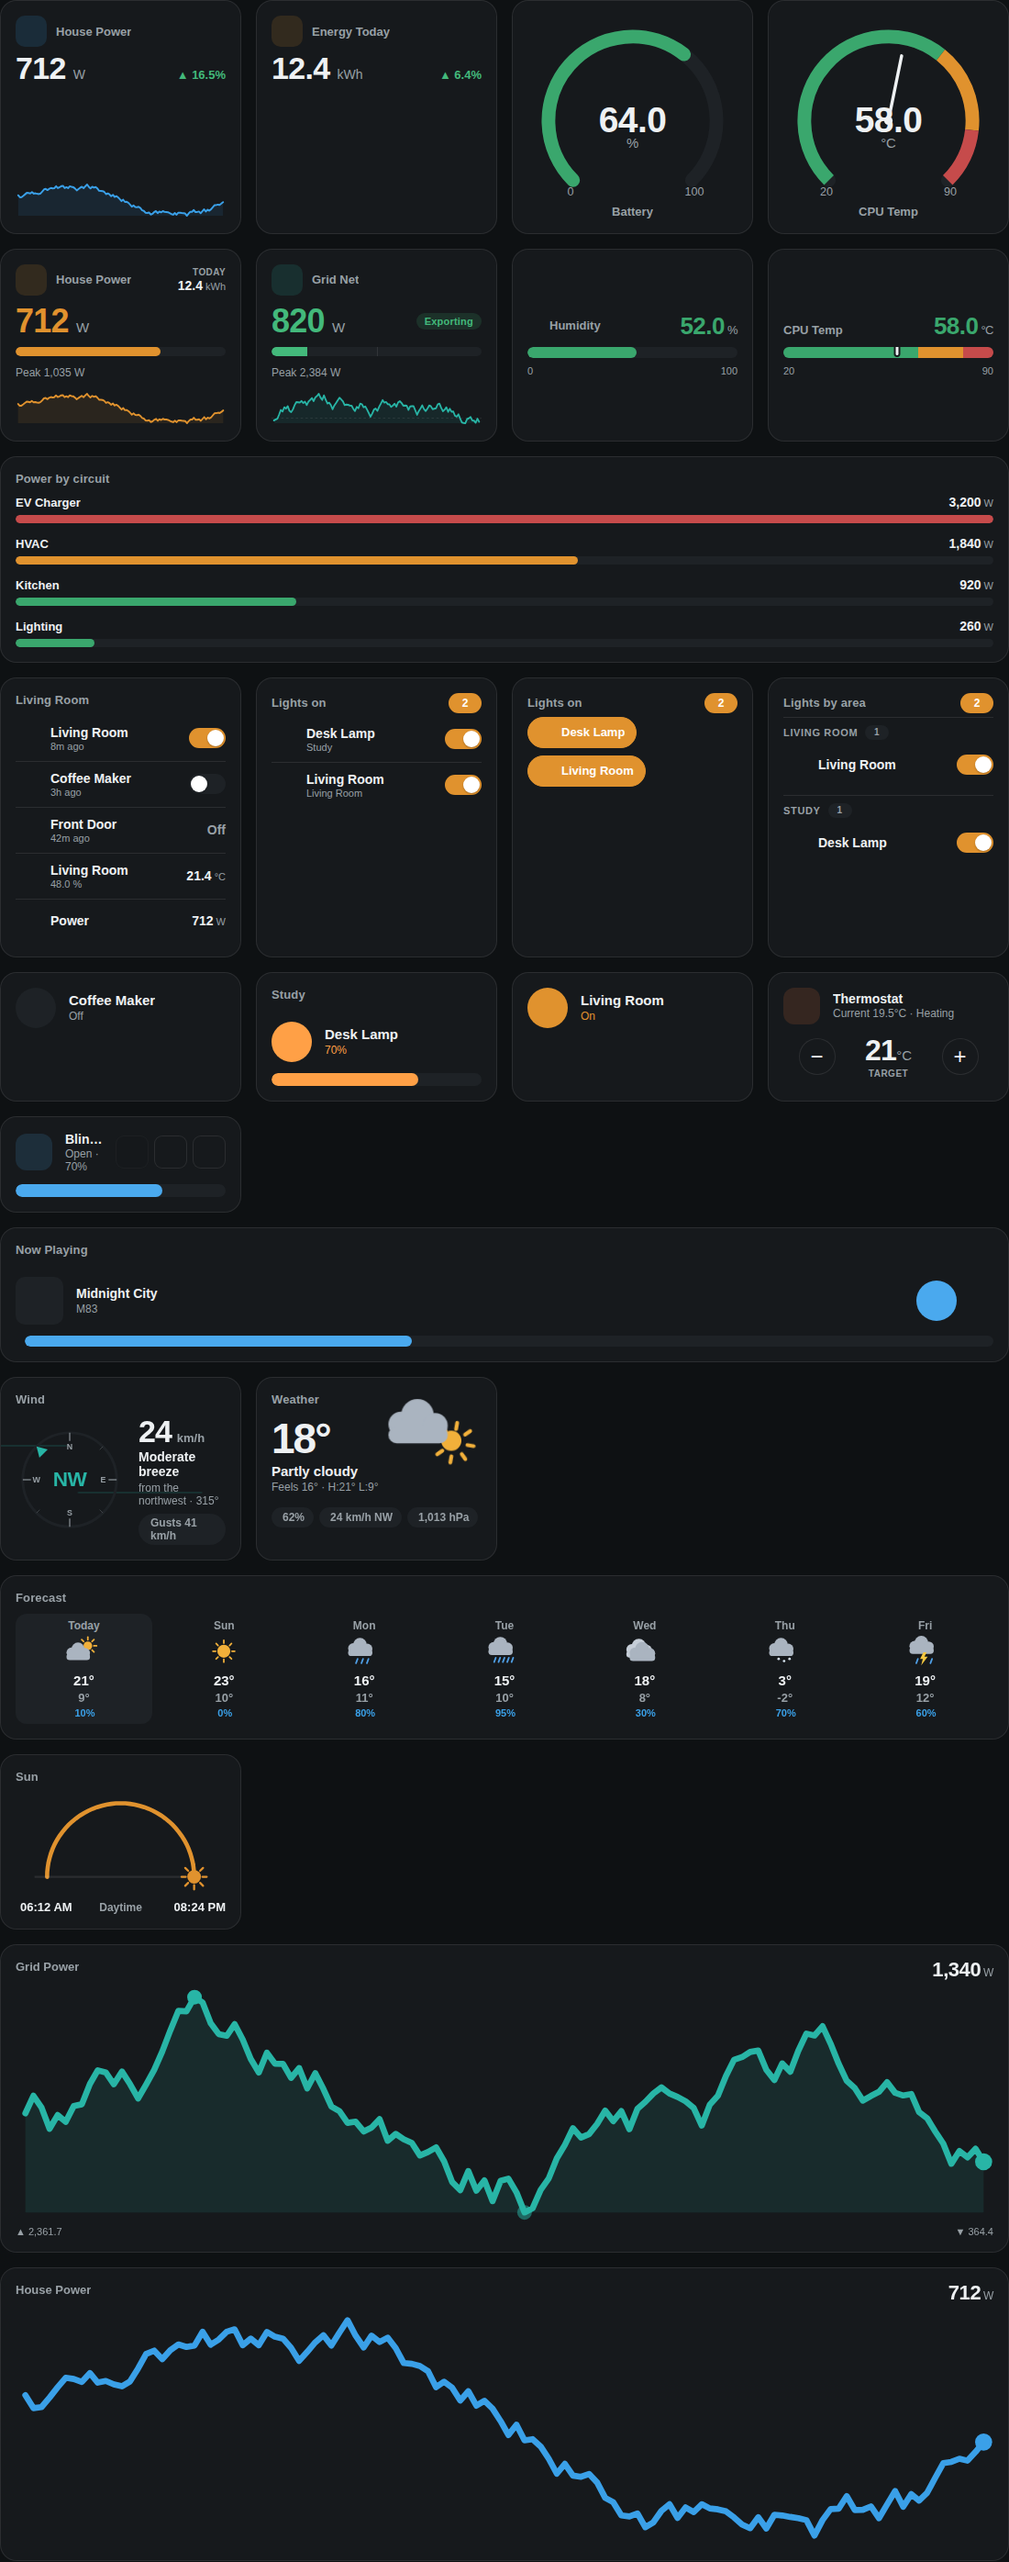
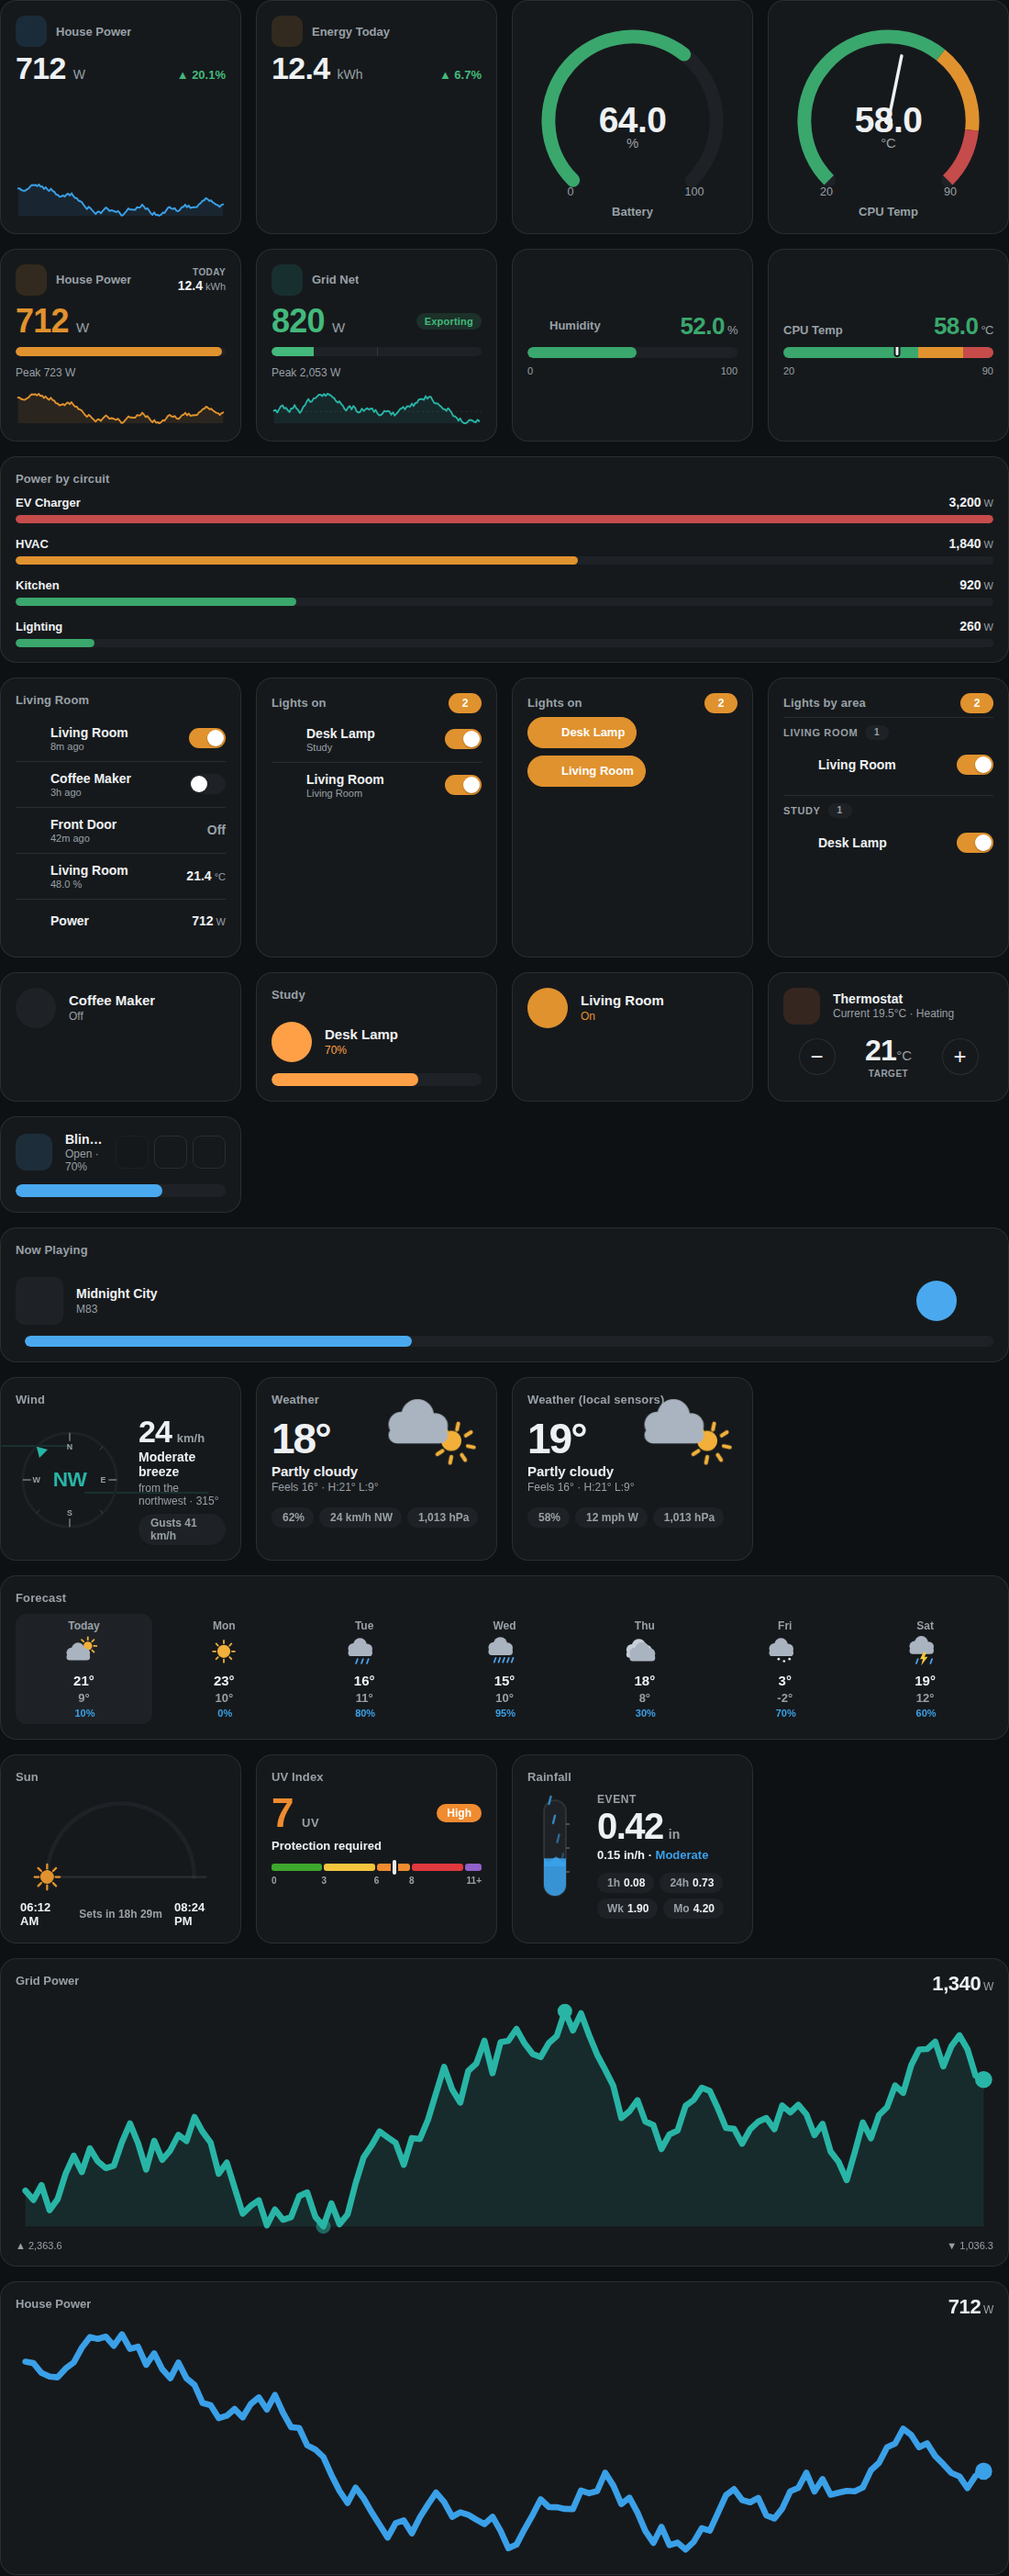
Auto-regenerate showcase images via a workflow (#18)
Regenerates the README showcase to include the UV + rain cards, and adds
.github/workflows/showcase.yml so it stays current automatically.

On any push to main touching src/**, prism.js, test/preview.html,
test/shot.js, or themes/**, the workflow installs Chromium, runs
build.sh + test/shot.js, and commits the refreshed
docs/assets/preview-{light,dark}.png back to main when they change. The
commit is [skip ci] and only touches docs/assets (outside the path
filter), so it never loops or re-triggers the release workflow. Also
runnable on demand via workflow_dispatch. Bumped shot.js settle waits
(600→1000, 400→600) so the async weather/forecast cards populate in CI.

Adding a card now only needs its preview.html demo — the showcase
updates itself. CI-infra only, no VERSION bump.

Claude-Session: https://claude.ai/code/session_014cpNPVU8j1iiU9CnXgr5JY

diff --git a/test/shot.js b/test/shot.js
@@ -15,14 +15,14 @@ const { chromium } = require('playwright');
   const assets = path.join(__dirname, '..', 'docs', 'assets');
 
   await page.goto(url);
-  await page.waitForTimeout(600); // let history promises + render settle
+  await page.waitForTimeout(1000); // let history + forecast promises + render settle
   const cards = await page.locator('prism-power-card').count();
   await page.screenshot({ path: path.join(__dirname, 'shot-light.png'), fullPage: true });
   // Committed showcase: just the card grid (no test-harness chrome).
   await page.locator('#grid').screenshot({ path: path.join(assets, 'preview-light.png') });
 
   await page.click('#theme');
-  await page.waitForTimeout(400);
+  await page.waitForTimeout(600);
   await page.screenshot({ path: path.join(__dirname, 'shot-dark.png'), fullPage: true });
   await page.locator('#grid').screenshot({ path: path.join(assets, 'preview-dark.png') });
 

diff --git a/CLAUDE.md b/CLAUDE.md
@@ -116,9 +116,32 @@ workflow via *Actions → Release → Run workflow*. (Requires the repo's Action
 token to have write access: Settings → Actions → General → *Read and write
 permissions*.)
 
+## Showcase images
+
+The README showcase (`docs/assets/preview-{light,dark}.png`) is **auto-regenerated**
+by `.github/workflows/showcase.yml`. On any push to `main` touching `src/**`,
+`prism.js`, `test/preview.html`, `test/shot.js`, or `themes/**`, it installs a
+Chromium, runs `bash build.sh` + `node test/shot.js`, and commits the updated
+images back to `main` (only if changed; commit is `[skip ci]` so it never loops
+or re-triggers the release). Also runnable on demand via *Actions → Showcase →
+Run workflow*. So a new card only needs its `test/preview.html` demo entry — the
+showcase updates itself. (Manual local regen still works too; the sandbox needs
+`chromium.launch({ executablePath: '/opt/pw-browsers/chromium-<ver>/chrome-linux/chrome' })`.)
+
 ## Session log
 
 Newest first. One short entry per working session: what shipped + open threads.
+
+### 2026-07-18 — Auto-regenerated showcase images
+- Regenerated `docs/assets/preview-{light,dark}.png` to include the UV + rain
+  cards (full weather set now in the showcase).
+- **Automated it:** added `.github/workflows/showcase.yml` — on push to `main`
+  touching src/prism.js/preview/shot/themes (or manual dispatch), it installs
+  Chromium, runs `build.sh` + `test/shot.js`, and commits the refreshed images
+  back to main if they changed (`[skip ci]` avoids loops / release re-trigger).
+  Bumped `test/shot.js` settle waits (600→1000, 400→600) so async weather/
+  forecast cards populate in CI. No VERSION bump (CI infra only).
+- Adding a card now just needs its preview.html demo; the showcase self-updates.
 
 ### 2026-07-18 — Rain card: animated gauge (v0.11.0)
 - **User request:** a rain card with a "cool animated gauge" showing rainfall
